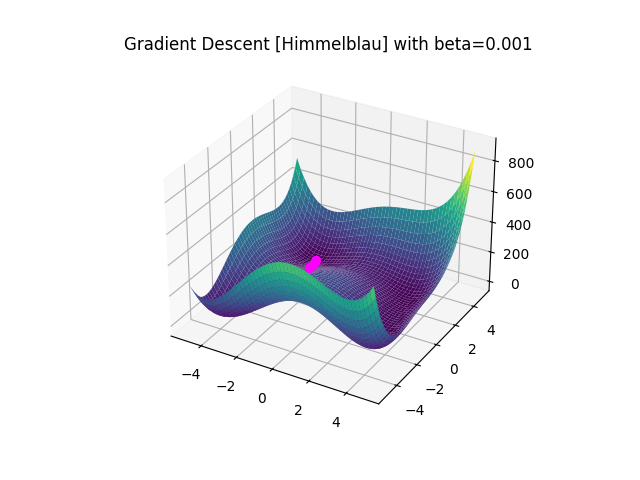
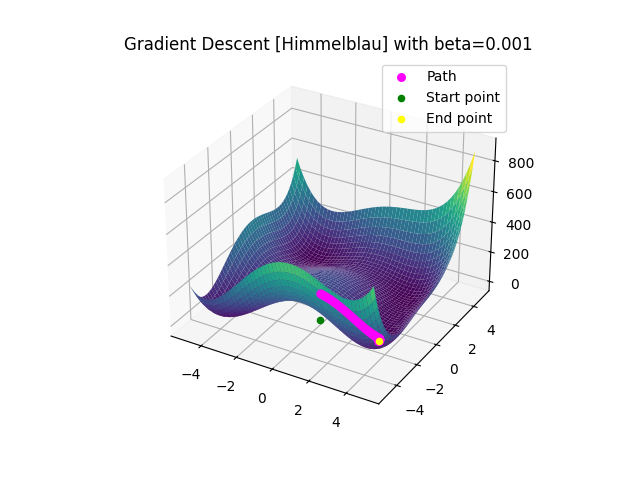
add legend to figures

Changed region(s): [[0.5938, 0.125, 0.7812, 0.2812], [0.4688, 0.5938, 0.625, 0.7188], [0.4688, 0.5312, 0.5, 0.5625]]

diff --git a/gradient_descent/main_ra.py b/gradient_descent/main_ra.py
@@ -2,19 +2,25 @@ import numpy as np
 import matplotlib.pyplot as plt
 from lib import gradient_descent, gradient_rastrigin, rastrigin
 
-
 if __name__ == "__main__":
-    x = np.arange(-5, 5, 0.01)
-    y = rastrigin(x)
+    x = np.arange(-5, 5, 0.1)
+    y = np.arange(-5, 5, 0.1)
+    x, y = np.meshgrid(x, y)
+    z = rastrigin(x, y)
 
     beta = [0.001, 0.005, 0.01, 0.05]
-    point = np.random.uniform(-5, 5, 1)
+    point = np.random.uniform(-5, 5, 2)
+    
     for b in beta:
-        path = gradient_descent([point], b, 0.001, gradient_rastrigin)
+        path = gradient_descent(point, b, 0.0001, gradient_rastrigin)
 
-        fig, ax = plt.subplots()
-        ax.plot(x, y)
-        ax.scatter(path, rastrigin(path), color="gray", linewidth=2, label="Path")
+        fig = plt.figure()
+        ax = plt.subplot(projection="3d", computed_zorder=False)
+        ax.plot_surface(x, y, z, cmap="viridis", alpha=0.7)
+        ax.scatter(point[0], point[1], rastrigin(point[0], point[1]), color="red", linewidth=2, label="Start Point", zorder=3)
+        ax.scatter(path[:, 0], path[:, 1], rastrigin(path[:, 0], path[:, 1]), color="gray", linewidth=2, label="Path", zorder=1)
+        ax.scatter(path[-1, 0], path[-1, 1], rastrigin(path[-1, 0], path[-1, 1]), color="yellow", linewidths=2, label="End Point", zorder=2)
         ax.set_title(f"Gradient Descent [Rastrigin] with beta={b}")
+        ax.legend()
         plt.savefig(f"img/rastrigin_beta_{b}.png")
         plt.close(fig)

diff --git a/gradient_descent/main_hi.py b/gradient_descent/main_hi.py
@@ -12,19 +12,23 @@ if __name__ == "__main__":
     beta = [0.001, 0.005, 0.01, 0.05]
     start = np.random.uniform(-5, 5, 2)
     for b in beta:
-        path = gradient_descent(start, b, 0.001, gradient_himmelblau)
+        path = gradient_descent(start, b, 0.0001, gradient_himmelblau)
 
         fig = plt.figure()
         ax = plt.subplot(projection="3d", computed_zorder=False)
-        ax.plot_surface(x, y, z, cmap="viridis", zorder=0)
+        ax.plot_surface(x, y, z, cmap="viridis", zorder=1)
         ax.scatter(
             path[:, 0],
             path[:, 1],
             himmelblau(path.T),
             color="magenta",
             linewidth=2,
-            zorder=1,
+            label="Path",
+            zorder=2,
         )
+        ax.scatter(start[0], start[1], color="green", label="Start point", zorder=3)
+        ax.scatter(path[-1, 0], path[-1, 1], color="yellow", label="End point", zorder=4)
         ax.set_title(f"Gradient Descent [Himmelblau] with beta={b}")
+        ax.legend()
         plt.savefig(f"img/himmelblau_beta_{b}.png")
         plt.close(fig)

diff --git a/gradient_descent/lib.py b/gradient_descent/lib.py
@@ -21,9 +21,10 @@ def gradient_rastrigin(x: int) -> int:
     x = np.array(x)
     return 2 * x + 20 * np.pi * np.sin(2 * np.pi * x)
 
-
-def stop(gradient: callable, path: np.ndarray, epsilon: float) -> bool:
-    return np.linalg.norm(gradient(path[-1])) < epsilon
+def stop(gradient: callable, path: np.ndarray, epsilon: float, beta: float) -> bool:
+    grad_norm = np.linalg.norm(gradient(path[-1]))
+    next_step = beta * grad_norm
+    return grad_norm < epsilon or next_step < epsilon
 
 
 def gradient_descent(
@@ -35,7 +36,7 @@ def gradient_descent(
         grad = gradient(current)
         next_point = current - beta * grad
         path.append(next_point)
-        if stop(gradient, path, epsilon):
+        if stop(gradient, path, epsilon, beta):
             print(f"Stopped at {next_point}")
             break
         current = next_point
